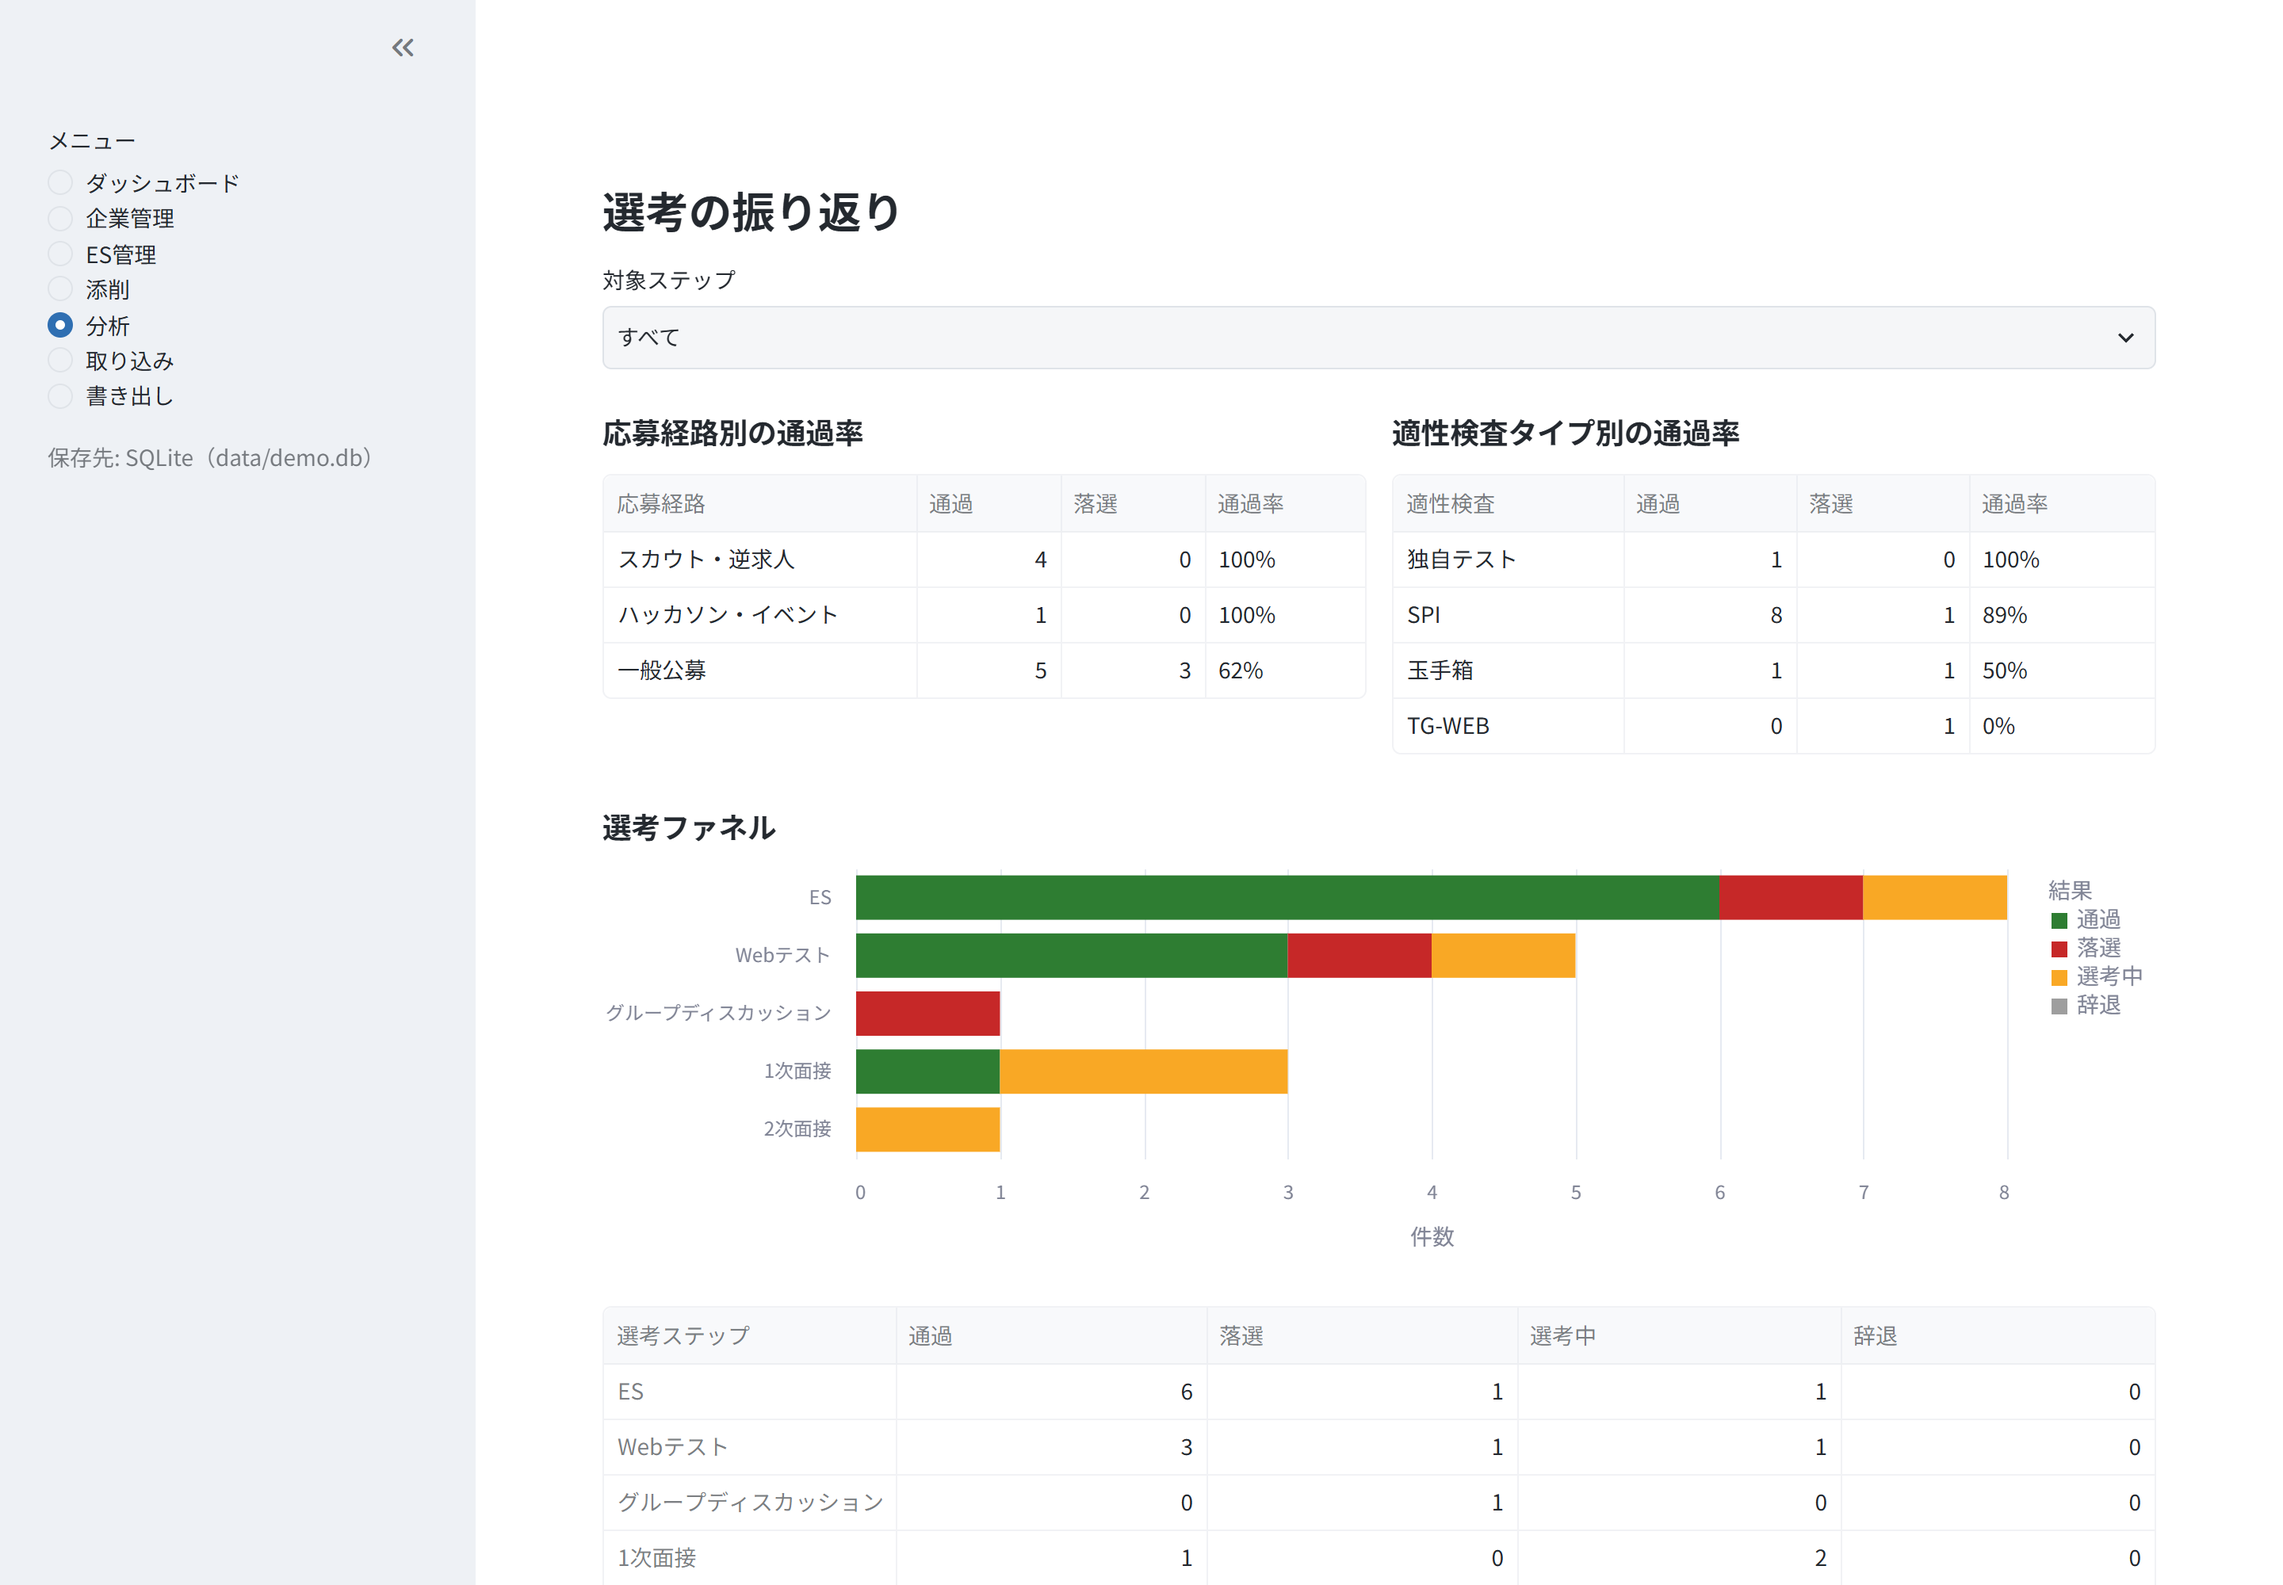
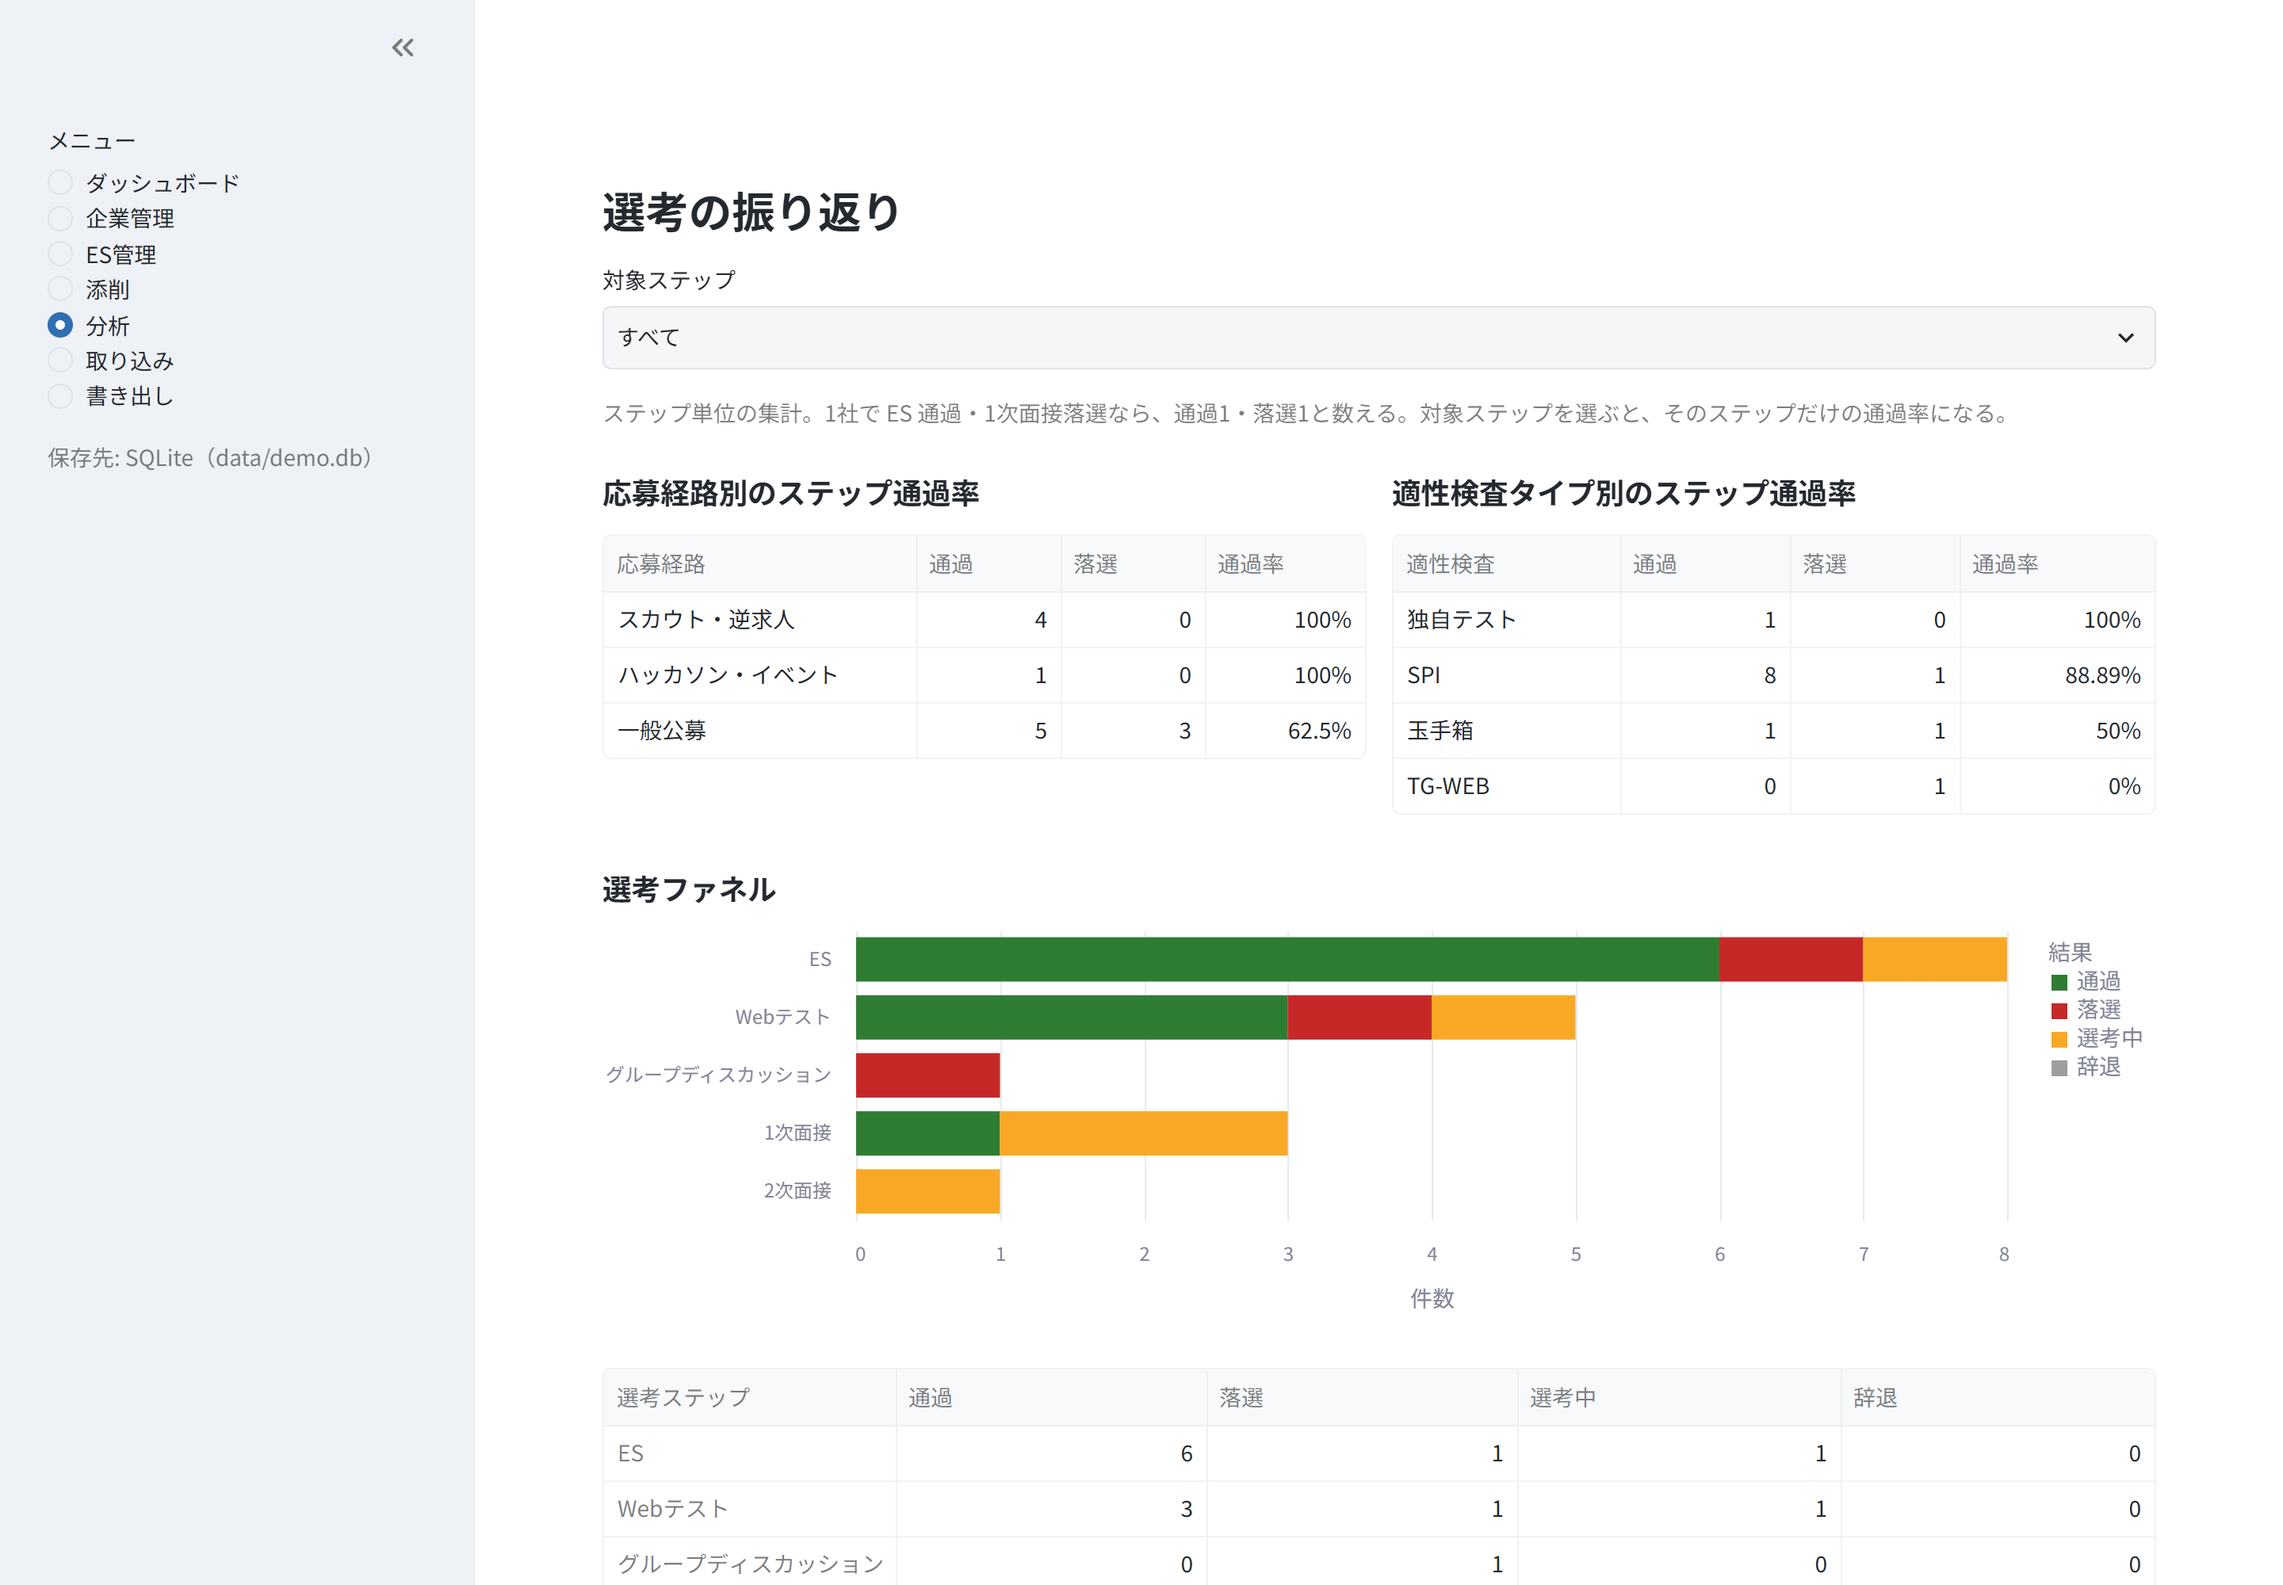
テスト計画とスクリーンショットを今回の修正に合わせる

diff --git a/docs/test_plan.md b/docs/test_plan.md
@@ -20,11 +20,13 @@
 | 指定日数以内の締切だけを抽出する | `test_within_days` |
 | 期限超過を含め、先頭に並べる | `test_overdue_is_included_and_sorted_first` |
 | 結果の出たステップと日付のないステップは対象外 | `test_finished_and_undated_steps_are_ignored` |
+| 落選・辞退した企業の残りのステップは、締切に出さない | `test_remaining_steps_of_an_ended_company_are_ignored`、`test_a_declined_company_is_also_ended` |
 | 経路別の通過率を出す | `test_rate_by_route` |
 | 通過率の高い順に並ぶ | `test_sorted_by_rate_descending` |
 | ステップ名で絞り込める | `test_filter_by_step_name` |
 | 想定外の属性名は受け付けない | `test_unknown_attribute_is_rejected` |
 | ファネルは既定の選考順で数える | `test_counts_in_standard_order` |
+| 落選・辞退した企業の残りのステップは、ファネルの「選考中」に数えない | `test_remaining_steps_of_an_ended_company_are_not_in_progress` |
 | 企業の状況判定（ステップなし・落選優先・最初の選考中・全通過） | `TestCompanyStatus` |
 
 ### リポジトリ（`tests/test_repositories.py`）
@@ -52,6 +54,7 @@
 | 企業を追加すると既定の選考ステップも入る。省略もできる | `test_default_steps_are_created`、`test_default_steps_can_be_skipped` |
 | 企業名は前後の空白を除き、空なら拒否 | `test_name_is_trimmed_and_required` |
 | 業界・志望度・応募経路・適性検査は選択肢にある値だけを受け付ける（追加も更新も）。更新でも企業名は必須で、URL とメールは空白を除く | `TestCompanyValidation` |
+| 企業名・ステップ名に改行やタブなどの制御文字を入れさせない（追加も更新も） | `test_a_company_name_with_control_characters_is_rejected`、`test_renaming_to_a_multi_line_name_is_rejected`、`test_a_step_name_with_a_line_break_is_rejected` |
 | 読めない書式の締切は空にせず拒否する。読める締切は ISO 形式で保存する | `test_an_unreadable_deadline_is_rejected_not_nulled`、`test_a_readable_deadline_is_stored_in_iso_form` |
 | 重複で失敗したとき、ステップだけが残らない | `test_duplicate_name_leaves_no_orphan_steps` |
 | 追加したステップは末尾に付く | `test_added_step_goes_to_the_end` |
@@ -80,6 +83,7 @@
 | 同じ企業名の行は1社にまとまる。空欄は追加フォームと同じ既定値。空行は数えて読み飛ばす | `test_rows_with_the_same_name_become_one_company`、`test_blank_cells_take_the_same_defaults_as_the_form`、`test_blank_rows_are_counted_and_skipped` |
 | 行番号は表計算ソフト上の行と一致する（セル内改行があってもずれない）。企業名が空の行は行番号つきで伝える | `test_line_numbers_match_the_spreadsheet_rows`、`test_blank_company_name_is_reported_with_its_line` |
 | 読めない締切を空にしない。選択肢にない値を既定値に丸めない。締切は ISO 形式に揃える | `test_unreadable_deadline_is_reported_not_nulled`、`test_value_outside_the_choices_is_reported_not_defaulted`、`test_deadline_is_normalised_to_iso` |
+| CSV の引用符の中の改行を、企業名・ステップ名に入れない | `test_a_line_break_in_a_name_is_reported` |
 | ステップ名のない締切・結果、見出しより右の値は取り込まずに伝える | `test_step_details_without_a_step_name_are_reported`、`test_cells_beyond_the_header_are_reported` |
 | 1行でも問題があれば、その企業は丸ごと取り込まない | `test_one_bad_row_holds_back_the_whole_company` |
 | 登録済みの企業は上書きせず伝える。企業内のステップの重複と、行どうしの属性の食い違いも伝える | `test_existing_company_is_reported_not_overwritten`、`test_repeated_step_within_a_company_is_reported`、`test_conflicting_company_attributes_are_reported`、`test_repeating_the_same_attribute_is_not_a_conflict` |
@@ -102,6 +106,8 @@
 | 一覧を読んだあとに別のプロセスが流した版は、境界の中で見直して二度流さない | `test_a_version_applied_meanwhile_is_skipped_inside_the_boundary` |
 | 版の中の文が一意制約に反したら、記録の重複と取り違えずに失敗として止め、次の版も流さない | `test_a_version_that_breaks_a_unique_constraint_is_not_skipped` |
 | 2つのセッションが同時に初回接続しても、二度流せない版を1回だけ流す（PostgreSQL のみ） | `test_two_sessions_starting_together_apply_a_version_once` |
+| 空の DB に2つのセッションが同時に初めて接続しても、どちらも失敗しない（PostgreSQL のみ） | `test_first_connections_arriving_together_both_succeed` |
+| PostgreSQL の実行時間の打ち切りや容量不足は「接続が切れた」にせず、切断だけをそう分類する | `TestPostgresErrorClassification` |
 
 ### 接続（`tests/test_connection.py`）
 
@@ -135,6 +141,7 @@
 | 登録した企業がダッシュボードに出る | `test_dashboard_shows_registered_company` |
 | 描画しただけでは書き換えない（読めない締切を壊さない） | `test_rendering_does_not_destroy_an_unreadable_deadline`、`test_saving_without_edits_keeps_an_unreadable_deadline` |
 | 別の場所の更新を古い表示で戻さない | `test_rendering_does_not_revert_an_out_of_band_update`、`test_a_stale_tab_cannot_overwrite_a_newer_change` |
+| 保存済みの締切を画面から空に戻せる。締切のない行には消すチェックを出さない | `test_a_saved_deadline_can_be_cleared`、`test_a_step_without_a_deadline_has_nothing_to_clear` |
 | 古い表示への入力は反映せず、そのことを知らせる。更新されていない行の編集は通す。最新の表示からの保存では警告しない | `test_a_stale_tab_is_told_that_its_edit_was_not_saved`、`test_an_edit_on_an_untouched_row_is_still_saved_from_a_stale_tab`、`test_saving_a_fresh_tab_does_not_warn` |
 | 入力エラーは例外ではなく文面で出る | `test_duplicate_company_name_shows_a_message_not_a_traceback`、`test_blank_company_name_is_reported` |
 | 選択肢にない古い値があっても画面は落ちず、黙って書き換えず、更新時に選び直すよう伝える | `TestValuesOutsideTheChoices` |
@@ -144,6 +151,10 @@
 | 追加フォームは弾かれたときに入力を消さず、保存できたときだけ空に戻す | `TestFormsKeepInputOnError` |
 | 添削で業界を「指定なし」にしたら、提出先の業界の観点を足さずに送り、そのとおり残す | `test_choosing_no_industry_is_what_gets_sent_and_saved` |
 | 利用者が入れた文字列を、ラベルや通知で Markdown として解釈させない | `TestUserTextIsNotMarkdown` |
+| 状況の見出しに入るステップ名も解釈させない。数式・絵文字・色・アイコンの記法も書いたとおりに出す | `test_step_name_in_the_status_heading_is_escaped`、`test_streamlit_specific_syntax_is_not_interpreted` |
+| 企業情報を更新しても選択が別の企業に移らない。「（汎用）」という名前の企業があっても汎用の回答を登録できる | `TestCompanySelection` |
+| 所見の履歴を開いただけで外部の画像を読みに行かない | `TestReviewHistoryRendering` |
+| 通過率の列は数値で、値の順に並べ替わる | `test_pass_rate_is_a_number_so_it_sorts_by_value` |
 | 添削のページの題がメニューの項目名と揃い、表の見出しに内部の列名が出ない | `test_review_page_title_matches_the_menu`、`test_funnel_table_has_no_english_heading` |
 | 削除は確認しないと押せない。確認すれば消える | `test_delete_is_disabled_until_confirmed`、`test_delete_works_once_confirmed` |
 | 選考ステップと所見の削除も、何が失われるかを見せた上の「削除する」だけで行える | `test_step_delete_is_behind_a_confirmation`、`test_review_delete_is_behind_a_confirmation` |
@@ -158,6 +169,7 @@
 |---|---|
 | リンクは https でエンコード済み、主要な調査ページを網羅 | `test_links_are_https_and_encoded`、`test_covers_key_research_pages` |
 | 書き出しに依頼文・記録・集計が含まれる | `test_contains_request_and_records`、`test_contains_aggregates` |
+| 書き出しの通過率に、ステップ単位で数えていることを添える | `test_pass_rate_says_how_it_is_counted` |
 | 書き出しにマイページ URL とログイン用メールを含めない | `test_export_never_contains_credentials` |
 | 回答本文は求めたときだけ含め、空の回答は飛ばす | `test_answers_only_when_requested`、`test_empty_answers_are_skipped` |
 

diff --git a/CHANGELOG.md b/CHANGELOG.md
@@ -27,6 +27,7 @@
 ### Changed
 - CI の型検査と SQLite のテストで `anthropic` SDK（`constraints.txt` で 1.8.0 に固定）を入れる。これまで SDK を入れておらず、型検査では Any 扱い、テストでは偽の SDK しか通っていなかった。本物の SDK を通信だけ差し替えて通すテスト（`TestWithTheRealSdk`）を足し、引数名と例外の型の食い違いを検出する
 - PR の粒度を「1回の点検や1つの機能で出た修正は1本の PR にまとめ、コミットを不具合ごとに分ける」に改める（CONTRIBUTING.md）。PR テンプレートに CHANGELOG の追記の確認を足す
+- 画面の変更（ステップ通過率の見出し、「締切を消す」、期限超過の数え方）に合わせてスクリーンショットを撮り直す
 - README の「上流の更新で CI が勝手に赤くなることはない」を、直接の依存に限った書き方に改める。間接の依存は固定していない
 - 文書の括弧を全角に揃える。コード・リンク・URL・他システムの画面表示の引用は半角のまま
 - CI バッジのリンクが、括弧を全角に揃えたときに壊れていたのを直す
